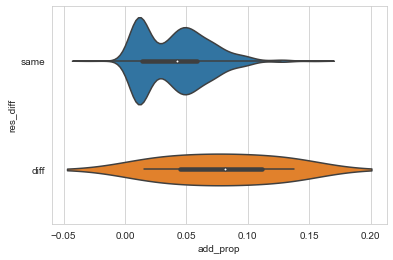
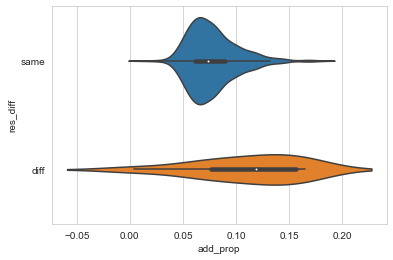
fix d4 -> d3 methodology and regenerate plots

diff --git a/wa_3day_voting/1_create_analysis_df.py b/wa_3day_voting/1_create_analysis_df.py
@@ -10,6 +10,8 @@ import numpy as np
 import matplotlib.pyplot as plt
 import seaborn as sns
 
+# load
+
 rsltn = pd.read_csv(
     'data/all_resolution_data_20230216.csv.xz',
     parse_dates=['resolution_date'])
@@ -26,50 +28,70 @@ votes['_dst'] = votes['resolution_id'].map(
     votes.groupby('resolution_id')['date'].min())
 votes['_day'] = (votes['date'] - votes['_dst']).dt.days
 
+# -------------------------------
+# CONSTRUCT DATA IN TWO DATA SETS
+# -------------------------------
 
-def process(df):
-    df.sort_values(by='time', inplace=True)
-    try:
-        d3 = df[lambda d: d['_day'] == 3].iloc[-1]
-        d4 = df[lambda d: d['_day'] == 4].iloc[-1]
-        return {
-            'day3_tv': d3[['votes_for', 'votes_against']].sum(),
-            'day3_rs': 'pass' if d3['votes_for'] > d3['votes_against'] else 'fail',
-            'day4_tv': d4[['votes_for', 'votes_against']].sum(),
-            'day4_rs': 'pass' if d4['votes_for'] > d4['votes_against'] else 'fail'}
-    except:
-        return {}
+# find last observation; select full vote series only
+last = votes.groupby('resolution_id').last()
+votes = votes[votes['resolution_id'].isin(last.query('_day == 4').index)]
 
+d4 = last[['time', 'votes_for', 'votes_against']].copy()
+d4['_tv4'] = d4[['votes_for', 'votes_against']].sum(axis=1)
+d4['_rs4'] = np.where(d4['votes_for'] > d4['votes_against'], 'pass', 'fail')
 
-l = votes.groupby('resolution_id').apply(process)
-day_results = pd.DataFrame(l.values.tolist(), index=l.index) \
-    .dropna(axis=0)
+# construct the day before; create columns and select minimum difference
+votes['_final'] = votes['resolution_id'].map(d4['time'])
 
-day_results['add_prop'] = day_results.eval('(day4_tv - day3_tv) / day4_tv')
+# final t MinuS 1
+votes['_ftms1'] = votes['_final'] - pd.offsets.Day(1)
+
+# final t Minus 1 difference
+votes['_ftm1d'] = abs(votes['_ftms1'] - votes['time'])
+
+d1bf = votes.sort_values('_ftm1d').groupby('resolution_id').first()
+d3 = d1bf[['time', '_ftm1d', 'votes_for', 'votes_against']].copy()
+d3['_tv3'] = d3[['votes_for', 'votes_against']].sum(axis=1)
+d3['_rs3'] = np.where(d3['votes_for'] > d3['votes_against'], 'pass', 'fail')
+
+# --------
+# analysis
+# --------
+
+day_results = d4.join(d3, lsuffix='_d4', rsuffix='_d3')
+
+# drop entries where _ftm1d is implausibly large
+day_results = day_results[day_results['_ftm1d'].dt.seconds < 60 * 60 * 1.2]
+
+day_results['add_prop'] = day_results.eval('(_tv4 - _tv3) / _tv4')
 day_results['res_diff'] = np.where(
-    day_results['day3_rs'] == day_results['day4_rs'],
+    day_results['_rs4'] == day_results['_rs3'],
     'same', 'diff')
 
 # day_results['add_prop'].describe()
-# Out[56]:
-# count    920.000000
-# mean       0.040935
-# std        0.027867
-# min       -0.029080
-# 25%        0.013572
-# 50%        0.042191
-# 75%        0.059209
-# max        0.155788
+# Out[250]:
+# count    894.000000
+# mean       0.077928
+# std        0.024187
+# min        0.003668
+# 25%        0.061248
+# 50%        0.073483
+# 75%        0.089872
+# max        0.180737
 # Name: add_prop, dtype: float64
 
 # day_results['res_diff'].value_counts()
-# Out[55]:
-# same    913
-# diff      7
+# Out[251]:
+# same    883
+# diff     11
 # Name: res_diff, dtype: int64
 
 sns.set_style('whitegrid')
 
-sns.stripplot(data=day_results, x='add_prop', y='res_diff')
-sns.histplot(data=day_results, x='add_prop', bins=64)
+sns.violinplot(data=day_results, x='add_prop', y='res_diff') \
+    .get_figure().savefig('plots/add_diff_vlplot.png', bbox_inches='tight')
+
+plt.clf()
+sns.histplot(data=day_results, x='add_prop', bins=32) \
+    .get_figure().savefig('plots/add_prop_hist.png', bbox_inches='tight')
 
